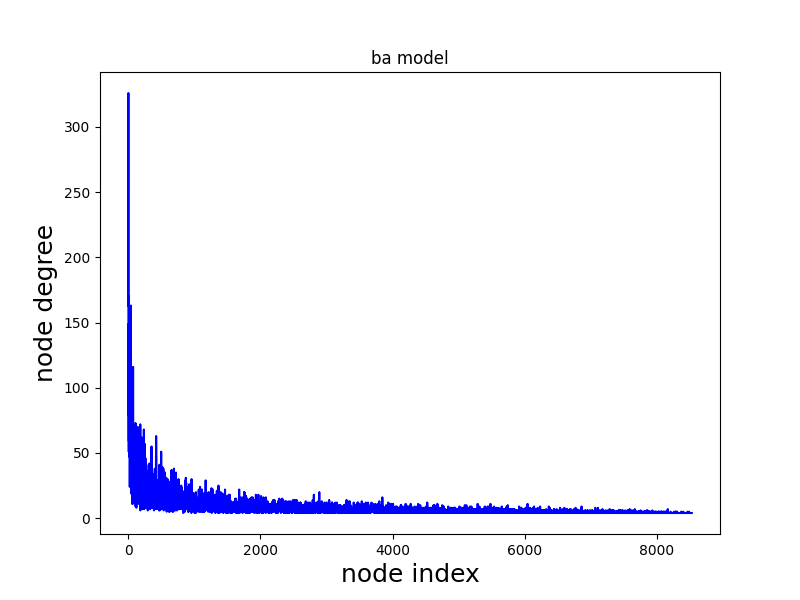
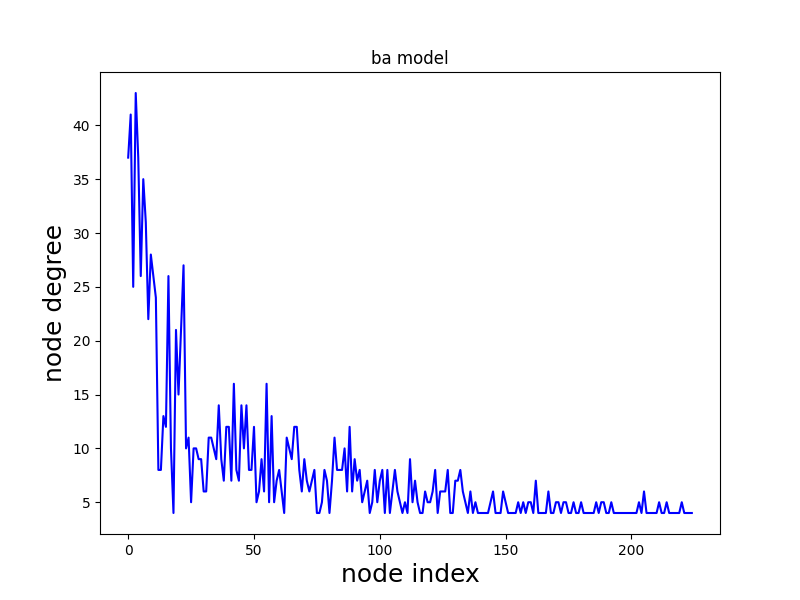
3 7

diff --git a/Networks3/ba.py b/Networks3/ba.py
@@ -114,8 +114,18 @@ def run_ba_model(size: int, kernel_size: int):
 
     degrees_count: int = sum(dict_degrees.values())
 
-    for i in range(len(ks)):
-        pks[i] = dict_degrees.get(i, 0) / degrees_count
+    for i in range(0, len(list_degrees)):
+        k: int = list_degrees[i]
+
+        count_k: int = dict_degrees[k]
+
+        pk: float = count_k / degrees_count if degrees_count > 0 else 0.0
+
+        log_pk = math.log(pk) if pk > 0 else 0.0
+
+        log_log_pk = math.log(log_pk) if log_pk > 0 else 0.0
+
+        pks[i] = log_log_pk
 
     plt.figure(figsize=(8, 6))
 
@@ -196,4 +206,4 @@ def create_kernel(kernel_size: int) -> list[Node]:
 
     return list_of_nodes
 
-run_ba_model(8525, 4)
+run_ba_model(222, 4)
